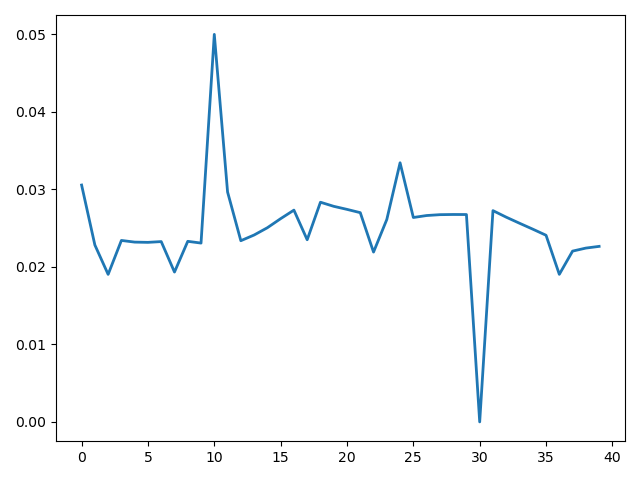
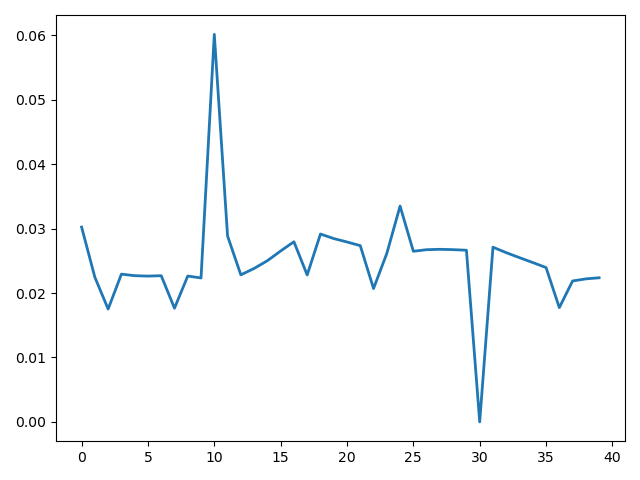
Add roll three doubles to jail to the Monopoly game and update docs

diff --git a/docs/MarkovChains.tex b/docs/MarkovChains.tex
@@ -128,9 +128,12 @@ This can be solved using an iterative derivation. For example, for a fair coin t
 \end{equation}
 Using Markov chains, not only can this be calculated computationally, but you can also calculate the probability of the gambler having a certain number of coins at any time step. See GamblersRuin.py for more details.
 
+The ``GamblerRuin.gif'' file shows evolution of a state with time, where the gambler starts on 4 coins and cashes out at 10. 
+The patterns observed are as expected - the 0\th iteration is a simple peak, the 1\st iteration is two peaks either side that of the 0\th iteration, and evolution follows that pattern as the probability slowly concentrates itself at 0 and 10.
+
 \subsection{Monopoly}
 
-The monopoly game can also be simulated using Markov chain analysis. In the Monopoly.py script, a simple setup is created with dice rolls and chance/community chest ``advance to'' cards accounted for. The stationary state gives the optimal position for properties. 
+The monopoly game can also be simulated using Markov chain analysis. In the Monopoly.py script, a simple setup is created with dice rolls, chance/community chest ``advance to'' cards and ``go to jail for three doubles in a row'' accounted for. The stationary state gives the optimal position for properties. 
 As has been observed elsewhere, the jail square is the most likely, followed by those around 7 squared afterward.
 The stationary state of the monopoly board is visualised in Fig. \ref{fig:monopoly}.
 
@@ -138,5 +141,7 @@ The stationary state of the monopoly board is visualised in Fig. \ref{fig:monopo
 	\centering
 	\includegraphics[width=0.6\textwidth]{MonopolyStationary.png}
 \end{figure}
+
+There are notable peaks and troughs. Peaks are at the positions of the ``advance to'' chance/community chest locations, and troughs are at the chance and community chest locations. The biggest peak, however, is for the jail location, and a trough at the ``go to jail'' square as this is treated as a square that you cannot land on -- it sends you straight to the jail cell. The shape of the distribution follows a wave, with upward parts following the peaks, particularly after the jail location.
 
 \end{document}

diff --git a/Monopoly.py b/Monopoly.py
@@ -13,14 +13,22 @@ class Monopoly:
                 if n+m < 40: prob_mat[n+m][n]    = dice_roll_prob(m)
                 else:        prob_mat[n+m-40][n] = dice_roll_prob(m)
 
+        # Roll three doubles (probability 1/6**3), go to jail
+        for n in range(40):
+            prob_mat[10][n] += (1/6)**3
+            for m in range(40):
+                prob_mat[m][n] *= (1-(1/6)**3)
+
         # Go to jail square
+        # Unoptimised second loop because this is a relatively short loop anyway
         for n in range(40):
             prob_mat[10][n] += prob_mat[30][n]
             prob_mat[30][n] = 0
+
         # Chance cards 
         n_chance = 16
         chance_locs     = [2,7,17,22,36]
-        chance_advances = [0, 24, 11]
+        chance_advances = [0, 24, 11, 10]
         for n in range(40):
             for chance in chance_locs:
                 for advance in chance_advances:

diff --git a/README.md b/README.md
@@ -1,4 +1,5 @@
 # MarkovChainExercise
 An exercise creating a markov chain class, and some examples using it.
 
-For documentation, see the docs/ folder. 
+This repository is well documented in the docs/ folder. 
+For recruiters and other interested people, I recommend ``MarkovChains.pdf'' for an overview and the .gif files for animations of how the Gambler's Ruin and Monopoly games evolve with time. 
